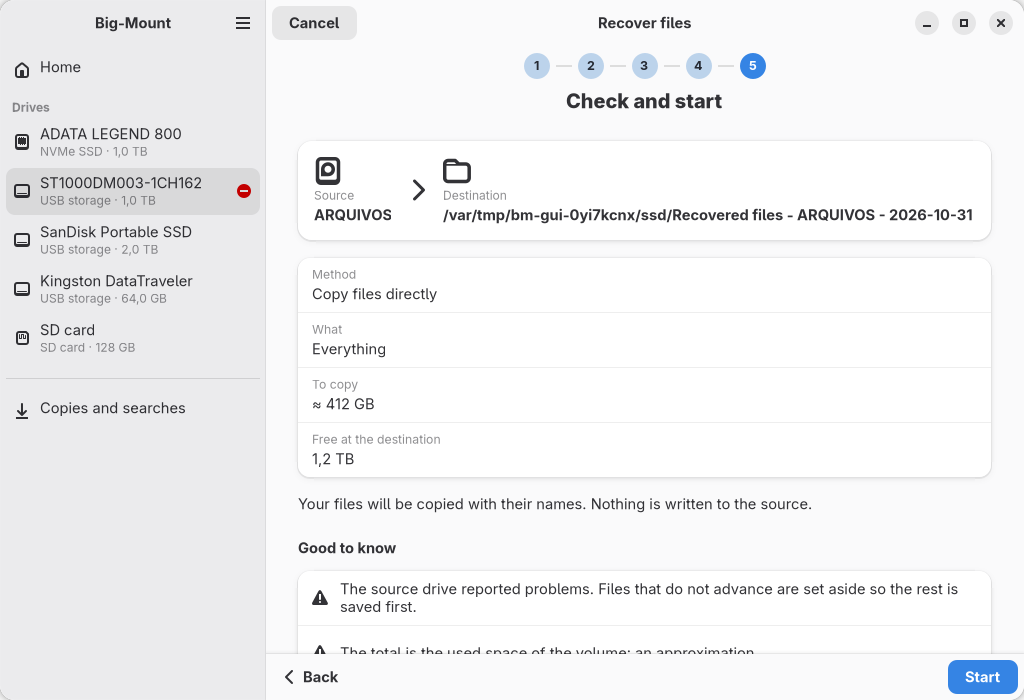
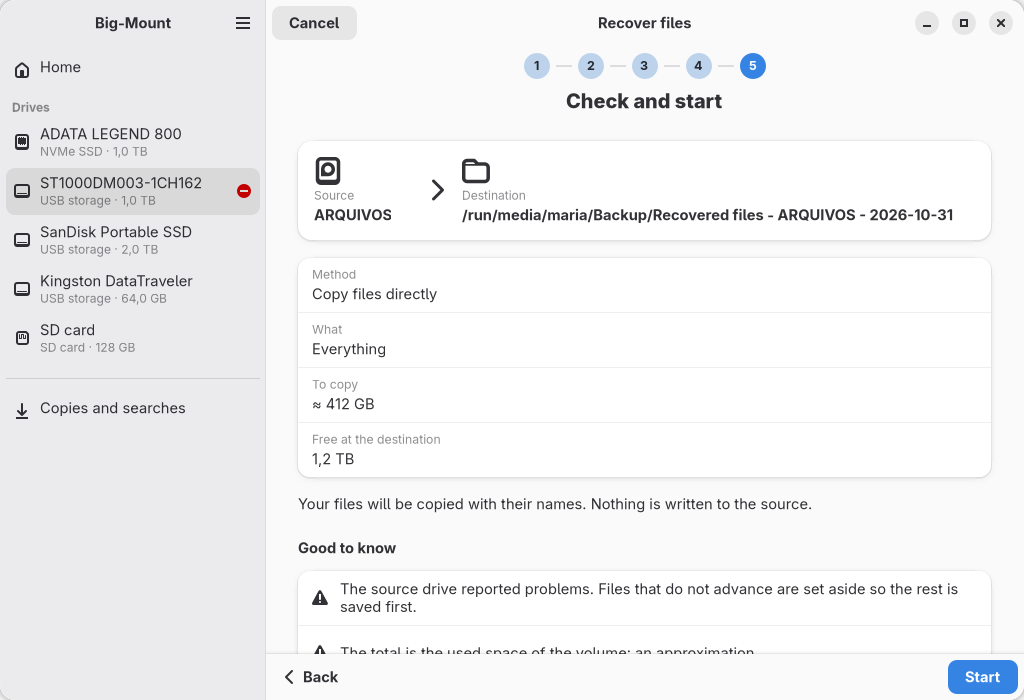
2.4.0: what the one application needs, and pictures that stay the same
PKGBUILD: python, polkit, rsync and smartmontools become dependencies. The
application runs with python3, starts its helper with pkexec, does every copy
with rsync and reads the health of a drive with smartctl. ddrescue and
testdisk stay optional: the application says when they are missing.
libadwaita needs 1.5 or later.

README: what is new in 2.4.0, the requirements as the package has them, and
two pictures in the dark style. The pictures of a copy and of its destination
showed the random scratch folder, so every run changed them; they now show
sample paths like the others.

Changed region(s): [[0.4062, 0.21, 0.9688, 0.33]]

diff --git a/tests/readme-screenshots.py b/tests/readme-screenshots.py
@@ -31,8 +31,9 @@ Adw.StyleManager.get_default().set_color_scheme(Adw.ColorScheme.FORCE_DARK if DA
 
 from gui.window import MainWindow  # noqa: E402
 
-MOUNT = WORK / "ssd"
-MOUNT.mkdir()
+# What the pictures show for the backup disk: a path like the others, never the
+# random scratch folder, so the same code always gives the same pictures
+MOUNT = pathlib.PurePath("/run/media/maria/Backup")
 SOURCE = WORK / "arquivos"
 (SOURCE / "Fotos").mkdir(parents=True)
 (SOURCE / "Documentos").mkdir()
@@ -78,7 +79,7 @@ fix("copy-dry", {"error": "", "error_text": "", "source": str(SOURCE), "destinat
 
 def job(**kw):
     base = {"id": "20261031-120000-abcd", "kind": "copy", "result_kind": "copied-files", "state": "running", "state_label": "Copying", "reason": "", "reason_text": "",
-            "source": str(SOURCE), "destination": str(MOUNT), "name": "ARQUIVOS", "current": "Fotos/2019/ferias/DSC_0142.jpg", "verify": "basic", "verify_result": "", "dir": str(WORK),
+            "source": "/run/media/maria/ARQUIVOS", "destination": str(MOUNT), "name": "ARQUIVOS", "current": "Fotos/2019/ferias/DSC_0142.jpg", "verify": "basic", "verify_result": "", "dir": str(WORK),
             "categories": "", "then_carve": "", "copy_to": "", "map": "", "level": "critical", "files_done": 18342, "files_total": 0, "bytes_done": 148 * GB, "bytes_total": 412 * GB,
             "rate_now": 94 * 1000 * 1000, "rate_avg": 88 * 1000 * 1000, "elapsed": 1720, "eta": 2800, "deferred": 2, "failed": 0, "differ": 0, "conflicts": 0, "read_errors": 3, "stuck": 0,
             "created": 1793419273, "finished": None, "scanned": 0, "pass": 0, "bad_bytes": 0, "total_estimate": True, "pausable": True}

diff --git a/README.md b/README.md
@@ -72,6 +72,37 @@ The one operation that erases data, the Secure Erase of a whole drive
 ([5.4](#54-drive-errors-and-secure-erase)), runs only when you ask for it,
 confirm it, type the name of the drive and give the administrator password.
 
+### New in 2.4.0: one application
+
+The drive manager window (PySide6) and the dialogs of the drive check
+(KDialog/Zenity) did almost the same thing, in two different ways. They are now one
+application in GTK 4 and libadwaita:
+
+- `bigmount --gui-drive` and `bigmount --gui-drive-check` open the **same window**; the
+  second one opens on the health of the drive. A second call goes to the window that is
+  already open.
+- **Home** shows every drive as a card: kind, size, health in words and an icon, room,
+  volumes, and **Rescue my files** when a drive is at risk.
+- **Recover files** is an assistant in five steps (from where, what, how, where,
+  confirm), with four ways: copy directly, quick analysis, deep analysis (PhotoRec,
+  after a ddrescue image of a physical disk) and lost partitions (TestDisk, read only).
+  It never offers the same physical disk as the destination.
+- **What was found** stays light with a million entries, and says whether these are
+  files that exist, candidates found by content, or files already copied.
+- **Erase data permanently** lives apart, under **Advanced maintenance**: two
+  confirmations, the typed name checked again by the engine, polkit as always.
+- Light and dark styles, a narrow window, keyboard, Brazilian Portuguese.
+- PySide6 is no longer needed. The terminal commands (`--drive`, `--secure-erase`) and
+  the boot did not change.
+
+<p align="center">
+  <img src="docs/images/app-rescue-how-dark.png" width="420" alt="The assistant in the dark style: the advised way first, with why">
+  <img src="docs/images/app-results-dark.png" width="420" alt="What was found, in the dark style: filters by type, search, selection">
+</p>
+
+How it was designed, tested and reviewed:
+[`docs/gtk-unification/`](docs/gtk-unification/08-final-report.md) (in Portuguese).
+
 ---
 
 ## 2. Installation
@@ -86,8 +117,9 @@ package attached:
 sudo pacman -U ./big-mount-*-any.pkg.tar.zst
 ```
 
-Check the version of the release: the drive manager needs 2.3.0 or later. Until there
-is a release of it, [build the package](#23-build-the-package-yourself).
+Check the version of the release: the single application of the drive manager (GTK 4
+and libadwaita) needs 2.4.0 or later. Until there is a release of it,
+[build the package](#23-build-the-package-yourself).
 
 ### 2.2 From the BigLinux repository
 
@@ -176,27 +208,33 @@ cannot be traced to a commit.
 | Package | Kind | What for |
 | --- | --- | --- |
 | `bash` ≥ 5.2 | required (base) | every script |
-| `util-linux` | required | `blkid`, `lsblk`, `findmnt`, `mount`, `flock` |
-| `udisks2` | required | unmount, mount, lock, power off and take ownership through polkit |
+| `util-linux` | required | `blkid`, `lsblk`, `findmnt`, `mount`, `flock`, `setsid` |
+| `udisks2` | required | unmount, mount, unlock, power off and take ownership through polkit |
+| `polkit` | required | authorization; `pkexec` for the administrator view and the helper of the drive manager |
 | `ntfs-3g` | required | `lowntfs-3g` for NTFS |
 | `lsof` | required | find what keeps a device busy |
-| `kdialog` | optional | dialogs on KDE Plasma |
-| `zenity` | optional | dialogs on GNOME and other desktops |
+| `rsync` | required | every copy off a drive, in the window and in `--drive copy` |
+| `smartmontools` | required | the SMART counters on the health page (read only when you ask) |
+| `python`, `python-gobject`, `gtk4`, `libadwaita` ≥ 1.5 | required | the application (`--gui-drive`, `--gui-drive-check`). Never loaded at boot |
+| `kdialog` | optional | dialogs on KDE Plasma (read-only device, busy device) |
+| `zenity` | optional | the same dialogs on GNOME and other desktops |
 | `libnotify` | optional | notifications (`notify-send`); without it `kdialog --passivepopup` is used |
-| `polkit` | comes with `udisks2` | authorization; `pkexec` for the administrator view and the helper of the drive manager |
-| `rsync` | optional | copying files off a drive (`--drive copy`) |
-| `gtk4`, `libadwaita`, `python-gobject` | required | the application (`--gui-drive`). Never loaded at boot |
-| `smartmontools` | optional | SMART details of a drive |
-| `ddrescue` | optional | disk images of a failing drive |
+| `ddrescue` | optional | disk images of a failing drive, before a deep analysis |
 | `testdisk` | optional | finding lost partitions, searching files by content (PhotoRec) |
+
+`coreutils`, `findutils`, `gawk` and `systemd` (`udevadm`, `journalctl`) come with every
+Arch-based system and are not listed.
 
 Without `kdialog` or `zenity`, everything works in the terminal. Optional packages
 are detected when they are needed, and what is missing is explained. Big-Mount
-never installs anything by itself. To have the whole drive manager:
+never installs anything by itself. To have every way of rescuing files:
 
 ```bash
-sudo pacman -S --needed rsync smartmontools ddrescue testdisk
+sudo pacman -S --needed ddrescue testdisk
 ```
+
+PySide6 was needed up to 2.3.0 and is not anymore. If no other program uses it,
+`sudo pacman -Rs pyside6` removes it.
 
 ### 2.6 Disable or uninstall
 
@@ -704,8 +742,8 @@ Final messages, shown only after verification:
 
 For a drive that may be failing, a drive the desktop cannot open, or any time files
 must come off a disk and you want to know that they really did. This is new in
-2.3.0. It works in a window, in menus in any terminal (also over SSH), and as
-commands for scripts. All three use the same engine, so they say the same things.
+2.3.0, and one GTK 4 application since 2.4.0. It works in a window, in menus in any
+terminal (also over SSH), and as commands for scripts. All three use the same engine, so they say the same things.
 
 <p align="center">
   <img src="docs/images/app-health.png" width="820" alt="The health of a failing disk: critical, what was found, and what to do">
@@ -1143,6 +1181,7 @@ Details: [architecture](docs/15-drive-architecture.md),
 | Dolphin service menu | right-click a folder → **Storage device** | **Diagnose the drive and rescue files** (`bigmount --gui-drive %f`), **Why can't I write here?** (`bigmount --gui %f`) and **Safely remove (shows what keeps it busy)** (`bigmount --gui-remove %f`) |
 | Launcher | application menu → **Big-Mount** | opens the drive manager (`bigmount --gui-drive`); its action **Storage Diagnostics** chooses a device from a list (`bigmount --gui`) |
 | Notifications | when a device you cannot write to is mounted, and when a removal ends | see below |
+| Application | GTK 4 and libadwaita (`--gui-drive`, `--gui-drive-check`) | one window; light/dark style, narrow windows, keyboard and screen readers come from the toolkit |
 | Dialogs | KDialog (Plasma) or Zenity (GNOME) | light/dark theme, HiDPI and screen readers come from the toolkit |
 
 ### 7.1 Notifications
@@ -1745,7 +1784,7 @@ version activated `udisksd` over D-Bus (`systemd-analyze blame` recorded
 run during boot. Details in [`docs/08-performance.md`](docs/08-performance.md).
 
 The drive manager adds nothing to the boot or the session: nothing of it is loaded
-unless you ask for it, and Python and Qt only start with `--gui-drive`. Diagnosing a
+unless you ask for it, and Python and GTK only start with `--gui-drive`. Diagnosing a
 failing disk took 0.15 s on the development machine, because it reads nothing from it.
 
 ---

diff --git a/docs/gtk-unification/04-cli-compatibility.md b/docs/gtk-unification/04-cli-compatibility.md
@@ -56,5 +56,8 @@ trabalhos; `fstype` nos destinos; `powered_off` em `unmount`.
 - `bm_gui_drive`, `bm_pick_drive` e `bm_gui_secure_erase` de `cli.sh` (o caminho de
   diálogos). Os textos de `bm_erase_*_doc` continuam, usados pelo terminal e pela
   aplicação.
-- `pyside6` das dependências opcionais; `gtk4`, `libadwaita` e `python-gobject`
-  entraram nas dependências (só carregados por `--gui-drive*`).
+- `pyside6` das dependências opcionais; `python`, `python-gobject`, `gtk4` e
+  `libadwaita>=1.5` entraram nas dependências (só carregados por `--gui-drive*`), e
+  `polkit` (o `pkexec` do helper), `rsync` (toda cópia) e `smartmontools` (a página
+  Saúde) passaram de opcionais a obrigatórios. `ddrescue` e `testdisk` continuam
+  opcionais: a aplicação diz o que falta. A versão passou a 2.4.0.

diff --git a/docs/gtk-unification/08-final-report.md b/docs/gtk-unification/08-final-report.md
@@ -26,7 +26,8 @@
   `partitions --search/--json`, `--items-from`, `--results-of`, `--expect-diskseq`,
   `safe-remove`, identidade estável no JSON, `drive-erase.sh` (04).
 - **pt_BR** completo (1110 mensagens), README e documentos atualizados, capturas reais
-  novas em `docs/images/app-*.png`, PKGBUILD e CI sem PySide6.
+  novas em `docs/images/app-*.png`, PKGBUILD e CI sem PySide6; `rsync`,
+  `smartmontools`, `polkit` e `python` agora obrigatórios; versão 2.4.0.
 
 ## Como rodar e validar
 
